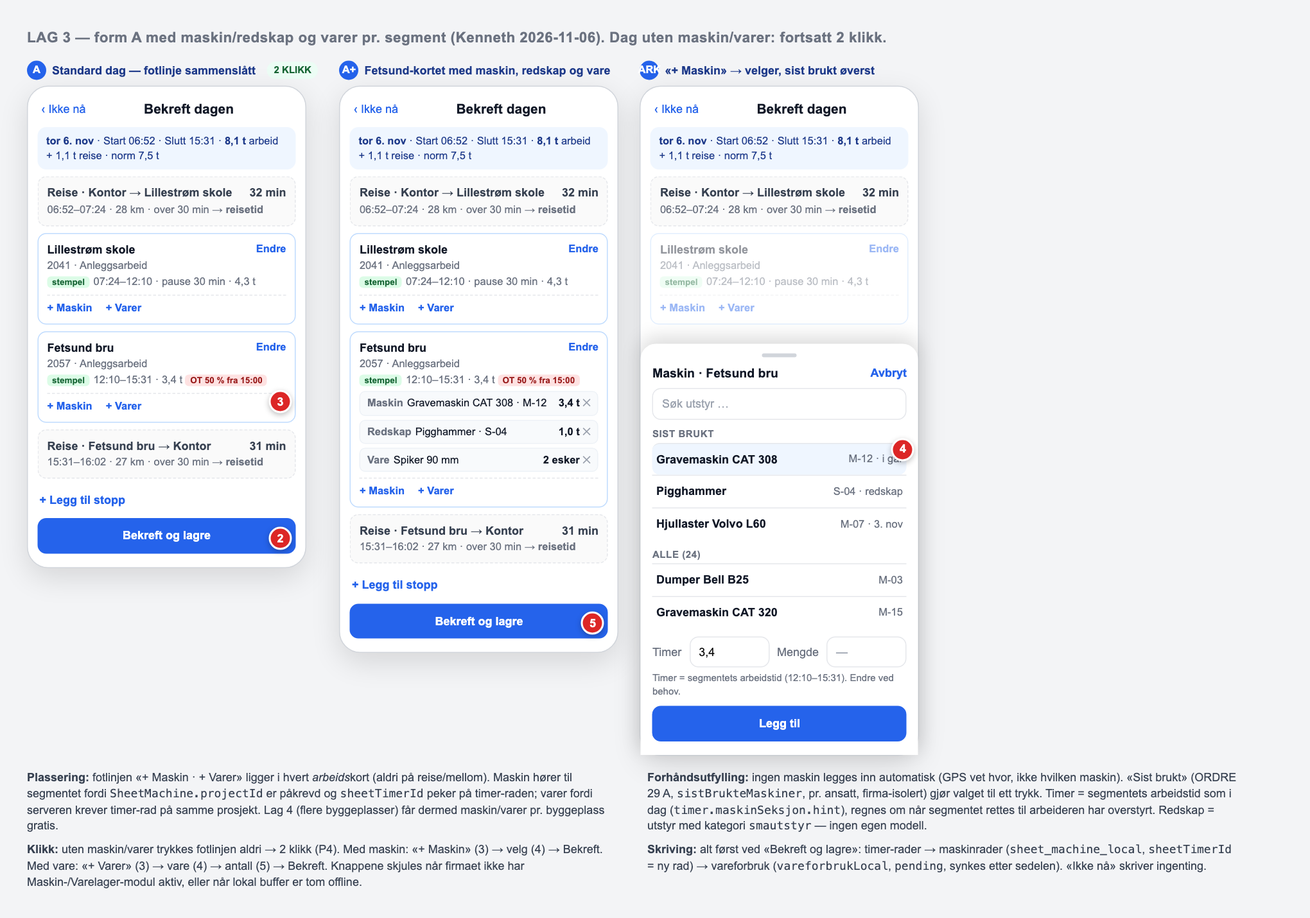
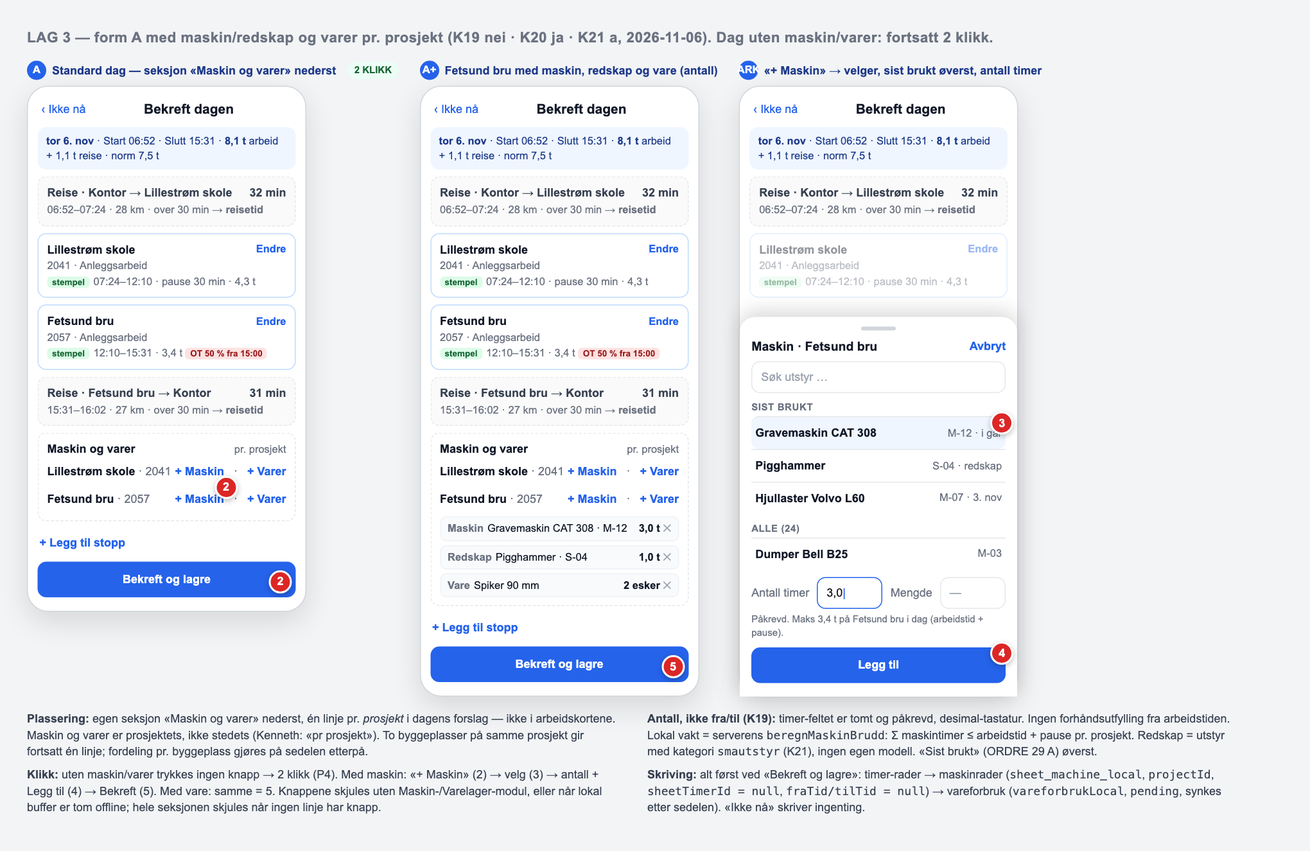
docs(timer-gps): K19–K21 vedtatt — maskin og varer pr. prosjekt med antall i bekreft-skjermen
Kenneth 2026-11-06: «la maskintimer være mulig å velge pr prosjekt, med antall -> ikke fra/til» (K19 nei),
«la varer være en mulighet vi kan legge til pr prosjekt» (K20), redskap = smautstyr (K21 a).

- § 3.5 omskrevet fra pr. byggeplass-segment til egen seksjon «Maskin og varer» pr. prosjekt:
  tomt antall-felt, sheetTimerId = null, fraTid/tilTid = null, lokal beregnMaskinBrudd-vakt,
  konsekvens for flere byggeplasser på samme prosjekt (én linje, fordeling på sedelen),
  K20 lesevisning i ProsjektGruppe (dagskort). Klikk: 2 uendret, maskin/vare 5.
- § 3.2-rad, § 6 L3-D-rad + modul-notat (byggeplassId på maskinrad → ORDRE 29 B #5, ikke L4-B),
  § 8 tester 15–19 omskrevet + 20–21 nye, § 9 K19–K21 lukket.
- Helhetsplan § 5-punktet speilet. Skisse skjermform-a-maskin-varer.png rendret på nytt.
- STATUS.md: loggpost + spec-rad.

diff --git a/docs/claude/skisser-timer-gps-lag3/skisser.html b/docs/claude/skisser-timer-gps-lag3/skisser.html
@@ -219,23 +219,28 @@ if (fig === "flyt") {
       </div>
     </div>`;
 } else if (fig === "maskinvarer") {
-  const fot = (klikk) => `<div class="fot"><span>+ Maskin</span><span>+ Varer</span>${klikk ? `<div class="klikk" style="right:-6px;top:-4px">${klikk}</div>` : ""}</div>`;
-  const kortLille = `<div class="sek arbeid"><div class="h"><span>Lillestrøm skole</span><span class="rediger">Endre</span></div><div class="u">2041 · Anleggsarbeid</div><div class="u"><span class="merke gps">stempel</span>07:24–12:10 · pause 30 min · 4,3 t</div>${fot()}</div>`;
+  const knapper = (klikk) => `<span style="display:flex;gap:10px;color:var(--primar);font-weight:600"><span style="position:relative">+ Maskin${klikk ? `<div class="klikk" style="right:-14px;top:-16px">${klikk}</div>` : ""}</span><span style="color:var(--demp);font-weight:400">·</span>+ Varer</span>`;
+  const plinje = (navn, nr, klikk) => `<div style="display:flex;justify-content:space-between;align-items:center;padding:6px 0;border-top:1px solid var(--linje);font-size:12px"><span><b>${navn}</b> <span style="color:var(--demp)">· ${nr}</span></span>${knapper(klikk)}</div>`;
+  const mvsek = (ekstra, klikk) => `<div class="sek" style="border-style:dashed"><div class="h"><span>Maskin og varer</span><span class="u" style="font-weight:400">pr. prosjekt</span></div>
+    ${plinje("Lillestrøm skole", "2041")}
+    ${plinje("Fetsund bru", "2057", klikk)}${ekstra}</div>`;
+  const kortLille = `<div class="sek arbeid"><div class="h"><span>Lillestrøm skole</span><span class="rediger">Endre</span></div><div class="u">2041 · Anleggsarbeid</div><div class="u"><span class="merke gps">stempel</span>07:24–12:10 · pause 30 min · 4,3 t</div></div>`;
+  const kortFetsund = `<div class="sek arbeid"><div class="h"><span>Fetsund bru</span><span class="rediger">Endre</span></div><div class="u">2057 · Anleggsarbeid</div><div class="u"><span class="merke gps">stempel</span>12:10–15:31 · 3,4 t <span class="merke ot">OT 50 % fra 15:00</span></div></div>`;
   const topp = `<div class="topp"><span class="tilbake">‹ Ikke nå</span><span class="t">Bekreft dagen</span><span></span></div>
   <div class="banner sum"><b>tor 6. nov</b> · Start 06:52 · Slutt 15:31 · <b>8,1 t</b> arbeid + 1,1 t reise · norm 7,5 t</div>
   <div class="sek reise"><div class="h"><span>Reise · Kontor → Lillestrøm skole</span><span>32 min</span></div><div class="u">06:52–07:24 · 28 km · over 30 min → <b>reisetid</b></div></div>`;
-  const bunn = `<div class="sek reise"><div class="h"><span>Reise · Fetsund bru → Kontor</span><span>31 min</span></div><div class="u">15:31–16:02 · 27 km · over 30 min → <b>reisetid</b></div></div>
-  <div class="legg">+ Legg til stopp</div>
+  const bunn = `<div class="legg">+ Legg til stopp</div>
   <div class="btn">Bekreft og lagre</div>`;
-  const a1 = `<div class="tlf">${topp}${kortLille}
-  <div class="sek arbeid"><div class="h"><span>Fetsund bru</span><span class="rediger">Endre</span></div><div class="u">2057 · Anleggsarbeid</div><div class="u"><span class="merke gps">stempel</span>12:10–15:31 · 3,4 t <span class="merke ot">OT 50 % fra 15:00</span></div>${fot(3)}</div>
+  const reiseHjem = `<div class="sek reise"><div class="h"><span>Reise · Fetsund bru → Kontor</span><span>31 min</span></div><div class="u">15:31–16:02 · 27 km · over 30 min → <b>reisetid</b></div></div>`;
+  const a1 = `<div class="tlf">${topp}${kortLille}${kortFetsund}${reiseHjem}
+  ${mvsek("", 2)}
   ${bunn}<div class="klikk" style="right:14px;bottom:18px">2</div></div>`;
-  const a2 = `<div class="tlf">${topp}${kortLille}
-  <div class="sek arbeid"><div class="h"><span>Fetsund bru</span><span class="rediger">Endre</span></div><div class="u">2057 · Anleggsarbeid</div><div class="u"><span class="merke gps">stempel</span>12:10–15:31 · 3,4 t <span class="merke ot">OT 50 % fra 15:00</span></div>
-    <div class="mv"><span><span class="ik">Maskin</span>Gravemaskin CAT 308 · M-12</span><span><b>3,4 t</b> <span class="x">✕</span></span></div>
+  const linjer = `
+    <div class="mv"><span><span class="ik">Maskin</span>Gravemaskin CAT 308 · M-12</span><span><b>3,0 t</b> <span class="x">✕</span></span></div>
     <div class="mv"><span><span class="ik">Redskap</span>Pigghammer · S-04</span><span><b>1,0 t</b> <span class="x">✕</span></span></div>
-    <div class="mv"><span><span class="ik">Vare</span>Spiker 90 mm</span><span><b>2 esker</b> <span class="x">✕</span></span></div>
-    ${fot()}</div>
+    <div class="mv"><span><span class="ik">Vare</span>Spiker 90 mm</span><span><b>2 esker</b> <span class="x">✕</span></span></div>`;
+  const a2 = `<div class="tlf">${topp}${kortLille}${kortFetsund}${reiseHjem}
+  ${mvsek(linjer)}
   ${bunn}<div class="klikk" style="right:14px;bottom:18px">5</div></div>`;
   const ark = `<div class="tlf">${topp}<div class="dimmet">${kortLille}</div>
   <div class="ark">
@@ -243,28 +248,27 @@ if (fig === "flyt") {
     <div class="tittel"><span>Maskin · Fetsund bru</span><span class="tilbake">Avbryt</span></div>
     <div class="sok">Søk utstyr …</div>
     <div class="gruppe">Sist brukt</div>
-    <div class="listerad valgt" style="position:relative"><span class="n">Gravemaskin CAT 308</span><span class="u">M-12 · i går</span><div class="klikk" style="right:-8px;top:-6px">4</div></div>
+    <div class="listerad valgt" style="position:relative"><span class="n">Gravemaskin CAT 308</span><span class="u">M-12 · i går</span><div class="klikk" style="right:-8px;top:-6px">3</div></div>
     <div class="listerad"><span class="n">Pigghammer</span><span class="u">S-04 · redskap</span></div>
     <div class="listerad"><span class="n">Hjullaster Volvo L60</span><span class="u">M-07 · 3. nov</span></div>
     <div class="gruppe">Alle (24)</div>
     <div class="listerad"><span class="n">Dumper Bell B25</span><span class="u">M-03</span></div>
-    <div class="listerad"><span class="n">Gravemaskin CAT 320</span><span class="u">M-15</span></div>
-    <div style="display:flex;gap:8px;align-items:center;margin-top:8px;font-size:12px"><span style="color:var(--demp)">Timer</span><span class="sok" style="flex:1;margin:0;color:#111">3,4</span><span style="color:var(--demp)">Mengde</span><span class="sok" style="flex:1;margin:0">—</span></div>
-    <div class="u" style="font-size:10px;color:var(--demp);margin-top:4px">Timer = segmentets arbeidstid (12:10–15:31). Endre ved behov.</div>
-    <div class="btn" style="margin-top:8px">Legg til</div>
+    <div style="display:flex;gap:8px;align-items:center;margin-top:8px;font-size:12px"><span style="color:var(--demp)">Antall timer</span><span class="sok" style="flex:1;margin:0;color:#111;border-color:var(--primar)">3,0<span style="color:var(--primar)">|</span></span><span style="color:var(--demp)">Mengde</span><span class="sok" style="flex:1;margin:0">—</span></div>
+    <div class="u" style="font-size:10px;color:var(--demp);margin-top:4px">Påkrevd. Maks 3,4 t på Fetsund bru i dag (arbeidstid + pause).</div>
+    <div class="btn" style="margin-top:8px;position:relative">Legg til<div class="klikk" style="right:-8px;top:-6px">4</div></div>
   </div></div>`;
   rot.innerHTML = `
-    <h1>LAG 3 — form A med maskin/redskap og varer pr. segment (Kenneth 2026-11-06). Dag uten maskin/varer: fortsatt 2 klikk.</h1>
+    <h1>LAG 3 — form A med maskin/redskap og varer pr. prosjekt (K19 nei · K20 ja · K21 a, 2026-11-06). Dag uten maskin/varer: fortsatt 2 klikk.</h1>
     <div class="rad">
-      <div><div class="steg"><span class="n">A</span>Standard dag — fotlinje sammenslått<span class="anbefalt">2 KLIKK</span></div>${a1}</div>
-      <div><div class="steg"><span class="n">A+</span>Fetsund-kortet med maskin, redskap og vare</div>${a2}</div>
-      <div><div class="steg"><span class="n">ARK</span>«+ Maskin» → velger, sist brukt øverst</div>${ark}</div>
+      <div><div class="steg"><span class="n">A</span>Standard dag — seksjon «Maskin og varer» nederst<span class="anbefalt">2 KLIKK</span></div>${a1}</div>
+      <div><div class="steg"><span class="n">A+</span>Fetsund bru med maskin, redskap og vare (antall)</div>${a2}</div>
+      <div><div class="steg"><span class="n">ARK</span>«+ Maskin» → velger, sist brukt øverst, antall timer</div>${ark}</div>
     </div>
     <div class="forklar" style="margin-top:14px;max-width:1260px;columns:2;column-gap:28px">
-      <p><b>Plassering:</b> fotlinjen «+ Maskin · + Varer» ligger i hvert <i>arbeids</i>kort (aldri på reise/mellom). Maskin hører til segmentet fordi <code>SheetMachine.projectId</code> er påkrevd og <code>sheetTimerId</code> peker på timer-raden; varer fordi serveren krever timer-rad på samme prosjekt. Lag 4 (flere byggeplasser) får dermed maskin/varer pr. byggeplass gratis.</p>
-      <p><b>Klikk:</b> uten maskin/varer trykkes fotlinjen aldri → 2 klikk (P4). Med maskin: «+ Maskin» (3) → velg (4) → Bekreft. Med vare: «+ Varer» (3) → vare (4) → antall (5) → Bekreft. Knappene skjules når firmaet ikke har Maskin-/Varelager-modul aktiv, eller når lokal buffer er tom offline.</p>
-      <p><b>Forhåndsutfylling:</b> ingen maskin legges inn automatisk (GPS vet hvor, ikke hvilken maskin). «Sist brukt» (ORDRE 29 A, <code>sistBrukteMaskiner</code>, pr. ansatt, firma-isolert) gjør valget til ett trykk. Timer = segmentets arbeidstid som i dag (<code>timer.maskinSeksjon.hint</code>), regnes om når segmentet rettes til arbeideren har overstyrt. Redskap = utstyr med kategori <code>smautstyr</code> — ingen egen modell.</p>
-      <p><b>Skriving:</b> alt først ved «Bekreft og lagre»: timer-rader → maskinrader (<code>sheet_machine_local</code>, <code>sheetTimerId</code> = ny rad) → vareforbruk (<code>vareforbrukLocal</code>, <code>pending</code>, synkes etter sedelen). «Ikke nå» skriver ingenting.</p>
+      <p><b>Plassering:</b> egen seksjon «Maskin og varer» nederst, én linje pr. <i>prosjekt</i> i dagens forslag — ikke i arbeidskortene. Maskin og varer er prosjektets, ikke stedets (Kenneth: «pr prosjekt»). To byggeplasser på samme prosjekt gir fortsatt én linje; fordeling pr. byggeplass gjøres på sedelen etterpå.</p>
+      <p><b>Klikk:</b> uten maskin/varer trykkes ingen knapp → 2 klikk (P4). Med maskin: «+ Maskin» (2) → velg (3) → antall + Legg til (4) → Bekreft (5). Med vare: samme = 5. Knappene skjules uten Maskin-/Varelager-modul, eller når lokal buffer er tom offline; hele seksjonen skjules når ingen linje har knapp.</p>
+      <p><b>Antall, ikke fra/til (K19):</b> timer-feltet er tomt og påkrevd, desimal-tastatur. Ingen forhåndsutfylling fra arbeidstiden. Lokal vakt = serverens <code>beregnMaskinBrudd</code>: Σ maskintimer ≤ arbeidstid + pause pr. prosjekt. Redskap = utstyr med kategori <code>smautstyr</code> (K21), ingen egen modell. «Sist brukt» (ORDRE 29 A) øverst.</p>
+      <p><b>Skriving:</b> alt først ved «Bekreft og lagre»: timer-rader → maskinrader (<code>sheet_machine_local</code>, <code>projectId</code>, <code>sheetTimerId = null</code>, <code>fraTid/tilTid = null</code>) → vareforbruk (<code>vareforbrukLocal</code>, <code>pending</code>, synkes etter sedelen). «Ikke nå» skriver ingenting.</p>
     </div>`;
 }
 document.body.dataset.klar = "1";

diff --git a/docs/claude/timer-gps-lag3-4-spec.md b/docs/claude/timer-gps-lag3-4-spec.md
@@ -3,7 +3,7 @@ name: timer-gps-lag3-4-spec
 description: Spesifikasjon for LAG 3 (bekreft dag — den menneskelige porten) og LAG 4 (flere byggeplasser pr. dag) i timer-GPS-helhetsplanen. Besøksmodell uten posisjonssporing, bekreft-dag-skjermen (2 klikk), reiseregler V1–V15 ved flere byggeplasser, løsning på G1-konflikten, leveransedeling og åpne spørsmål til Kenneth. Skrevet av fabel 2026-11-06 på orkestrators ordre (Kenneth «Ja, begge»), gates av orkestrator; Kenneth godkjenner før kode-ordre.
 sist_verifisert_mot_kode: 2026-11-06
 eier: fabel (kontroll-Claude) — orkestrator gater
-status: 🟢 VEDTATT 2026-11-06 (Kenneth «ja alle fire»: K11 a+c · K13 · K15 · K18 A; K12/K14/K16/K17 tas ved gate som anbefalt). Tillegg samme dag: maskin/redskap + varer i bekreft-skjermen (§ 3.5, leveranse L3-D). ORDRE-tekst L3-A klar i § 10. Nye spørsmål K19–K21 (§ 9) gjelder L3-D, ikke L3-A. Ingen kode levert
+status: 🟢 VEDTATT 2026-11-06 (Kenneth «ja alle fire»: K11 a+c · K13 · K15 · K18 A · K19 nei (maskin pr. prosjekt, antall) · K20 ja (varer pr. prosjekt) · K21 a; K12/K14/K16/K17 tas ved gate som anbefalt). Tillegg samme dag: maskin/redskap + varer i bekreft-skjermen (§ 3.5, leveranse L3-D). ORDRE-tekst L3-A klar i § 10. Nye spørsmål K19–K21 (§ 9) gjelder L3-D, ikke L3-A. Ingen kode levert
 ---
 
 # LAG 3 + LAG 4 — bekreft dag, og flere byggeplasser pr. dag
@@ -168,7 +168,7 @@ Skjermen viser **ett kort pr. segment** i kronologisk rekkefølge, pr. dato (del
 | Reise retur: «Reise · Fetsund bru → Kontor · 15:31–16:02 …» | V7, fra SISTE besøk | Nei — utledes |
 | Årsak-linje når reise mangler: «Ingen reise foreslått: posisjon utilgjengelig» / «Fetsund bru mangler plassering» / «ingen matrisecelle» | V12/V13 `reiseAarsak`/`destinasjonAarsak` | Nei (lenke til hjelp) |
 | Overtid: merke «OT 50 % fra 15:00» på raden som bærer | V4 (§ 4.4) | Nei — utledes |
-| Fotlinje i hvert *arbeids*kort: «+ Maskin · + Varer» (sammenslått, § 3.5) | Maskin-/Varelager-modul aktiv for firmaet | Ja: åpner velger-ark; registrerte linjer vises i kortet med «✕». Skjult når modul er av. **L3-D** |
+| Seksjon «Maskin og varer» nederst: én linje pr. *prosjekt* med «+ Maskin · + Varer» (§ 3.5, K19/K20 pr. prosjekt) | Maskin-/Varelager-modul aktiv for firmaet | Ja: åpner velger-ark; registrerte linjer vises under prosjektlinjen med «✕». Hele seksjonen skjult når modul er av. **L3-D** |
 | «+ Legg til stopp» nederst | — | Åpner samme velger som S2, setter inn besøk m/ tider (K13 ✅) |
 | [Bekreft og lagre] · [Ikke nå] | — | — |
 
@@ -203,59 +203,79 @@ hele gapet ligger på besøk n. Arbeideren kan sette «Dro fra» på kortet; da 
 fra» til neste ankomst. **Default når avreise er ukjent er K11 — ✅ VEDTATT (a)+(c) 2026-11-06:** hele gapet på
 besøk n til «Dro fra» settes; S1 foreslår «Dro fra A?» når appen åpnes utenfor A.
 
-### 3.5 Maskin/redskap og varer pr. segment (Kenneth 2026-11-06, skisse `skjermform-a-maskin-varer.png`)
+### 3.5 Maskin/redskap og varer pr. prosjekt (Kenneth 2026-11-06; K19–K21 vedtatt 2026-11-06; skisse `skjermform-a-maskin-varer.png`)
 
-> **Krav (Kenneth, via orkestrator, ordrett):** *«husk å etterregistrere maskintimer/redskap og varer»* — bekreft-
-> skjermen skal la arbeideren etterregistrere maskintimer/redskap og varer for dagen, ikke bare arbeidstimer og reise.
+> **Krav (Kenneth, ordrett):** *«husk å etterregistrere maskintimer/redskap og varer»* → **K19:** *«la maskintimer være
+> mulig å velge pr prosjekt, med antall -> ikke fra/til»* · **K20:** *«la varer være en mulighet vi kan legge til pr
+> prosjekt»* · **K21:** (a) som anbefalt.
 
-**Plassering: pr. byggeplass-segment (arbeidskortet), ikke pr. dag.** Målt grunnlag:
+**Plassering: pr. prosjekt, i en egen seksjon «Maskin og varer» nederst i skjermen** (over «+ Legg til stopp» og
+Bekreft) — én linje pr. prosjekt i dagens forslag, uansett hvor mange byggeplass-segmenter prosjektet har. Ikke i
+arbeidskortene (forrige utkast la dem pr. segment): maskin og varer er prosjektets, ikke stedets. Målt grunnlag:
 
-- `SheetMachine.projectId` er NOT NULL (`packages/db-timer/prisma/schema.prisma:544`) og `sheetTimerId` (`:541`)
-  kobler maskinraden til én timer-rad; mobil skriver maskin i dag bare gjennom timer-raden (`nyTimerRad.ts:161-182`,
-  `sheetTimerId = timerRadId`; maskintimer = radens timer, `timer.maskinSeksjon.hint` `nb.json:549`). En maskin uten
-  segment har ikke noe prosjekt å stå på.
-- `Vareforbruk` har `projectId` + `byggeplassId?` + `dagsseddelId?` (`packages/db-varelager/prisma/schema.prisma:74-84`),
-  og server-`opprett` (`apps/api/src/routes/vareforbruk.ts:370-394`) krever en sedel med minst én timer-rad på samme
-  prosjekt. Varer uten segment avvises.
-- Pr. segment gir lag 4 maskin/varer pr. byggeplass gratis — ingen omlegging når flere kort kommer (L4-B).
+- `SheetMachine.projectId` er NOT NULL (`packages/db-timer/prisma/schema.prisma:544`); `sheetTimerId` (`:541`) er
+  **valgfri** svak FK — null-rader «beholder søsken-rad-oppførsel og redigeres inline via maskin-seksjonen»
+  (kommentar `:535-540`). En maskinrad på prosjektnivå uten rad-kobling er et dokumentert tilfelle, ikke et unntak.
+  `fraTid/tilTid` er nullable (`:547-548`) — «antall, ikke fra/til» krever ingen skjema-endring.
+- `Vareforbruk` har `projectId` + `byggeplassId?` + `dagsseddelId?` (`packages/db-varelager/prisma/schema.prisma:74-84`);
+  server-`opprett` (`apps/api/src/routes/vareforbruk.ts:370-394`) krever sedel med ≥ 1 timer-rad på samme prosjekt.
+  Pr. prosjekt oppfyller kravet direkte: steg 1 skriver alltid minst én rad pr. prosjekt.
+- Server-vakt `validerMaskinUnderArbeid` (`apps/api/src/routes/timer/dagsseddel.ts:1050`) → `beregnMaskinBrudd`
+  (`packages/shared/src/utils/maskinKapasitet.ts:79`): Σ maskintimer ≤ Σ arbeidstimer + pause **pr. prosjekt(+ECO)**.
+  Grupperingen er alt pr. prosjekt, så vedtaket passer vakten. **Mobil importerer ikke funksjonen i dag** (0 treff i
+  `apps/mobile/src`); skjermen skal kjøre den lokalt før Bekreft — ellers avvises hele `syncBatch` server-side etter at
+  dagen er avsluttet lokalt.
+- Byggeplass på maskinrad utledes i dag server-side fra sedelhodet (`syncMaskinByggeplass`, `dagsseddel.ts:6301`:
+  `vaskTell(lokal.byggeplassId, radProsjekt(m.projectId))`). Mobil sender ikke `byggeplassId` pr. maskinrad, og en
+  pr.-prosjekt-rad trenger det ikke.
 
-**Klikktelling (P4-taket, maks 2 for vanlig dag):** hvert arbeidskort får én sammenslått **fotlinje «+ Maskin ·
-+ Varer»** — to tekstknapper, ingen egen seksjon, ingen tom liste. Dag uten maskin/varer: fotlinjen trykkes aldri →
-**2 klikk uendret**. Med maskin: «+ Maskin» (3) → velg i ark (4) → Bekreft = 4. Med vare: «+ Varer» (3) → vare (4)
-→ antall + Legg til (5) → Bekreft = 5. Reise- og mellom-kort har ingen fotlinje.
+**Konsekvens for flere byggeplasser på samme prosjekt samme dag (lag 4):** én prosjektlinje og én maskinrad/vare
+uansett antall besøk. Maskin og varer fordeles **ikke** pr. byggeplass fra skjermen; `byggeplassId` på vare settes bare
+når prosjektet har nøyaktig én byggeplass i forslaget (entydig), ellers null, og maskinrad bærer aldri byggeplass fra
+skjermen. Fordeling pr. byggeplass gjøres i så fall på sedelen etterpå (`MaskinSeksjon`, prosjektkortets vareliste).
+Det er vedtakets pris, og den er riktig: GPS vet *hvor* arbeideren var, ikke hvor maskinen gikk. § 6-notatet om
+`sheet_machine_local.byggeplassId` er dermed ikke lenger en forutsetning for denne skjermen.
+
+**Klikktelling (P4-taket, maks 2 for vanlig dag):** seksjonen viser prosjektnavn + «+ Maskin · + Varer» pr. prosjekt.
+Dag uten maskin/varer: ingen av knappene trykkes → **2 klikk uendret**. Med maskin: «+ Maskin» → velg i ark → antall +
+Legg til → Bekreft = **5**. Med vare: «+ Varer» → vare → antall + Legg til → Bekreft = **5**. (Forrige utkast hadde
+maskin = 4 fordi timer var forhåndsutfylt; K19 nei koster ett felt. Riktig: en maskintime arbeideren ikke har skrevet,
+er et gjett.)
 
 **Maskin/redskap:**
 
 | Element | Kilde / regel | Redigerbar? |
 |---|---|---|
-| Velger-ark «Maskin · {byggeplass}» | `EquipmentVelgerModal` (`MaskinSeksjon.tsx:1003`, sortering `:1053-1065`) med gruppe **«Sist brukt»** øverst (ORDRE 29 A: `sistBrukteMaskiner` pr. ansatt, firma-isolert, 2d mobil i `nyTimerRad.ts`), deretter «Alle» + søk | Ja |
-| Timer | **forhåndsutfylt = segmentets arbeidstid** (samme regel som i dag). Regnes om når segmentets tider rettes, til arbeideren har overstyrt feltet (K19) | Ja |
+| Prosjektlinje | ett prosjekt = én linje, nøkkel `projectId`; navn + prosjektnummer som i kortene | — |
+| Velger-ark «Maskin · {prosjekt}» | `EquipmentVelgerModal` (`MaskinSeksjon.tsx:1003`, sortering `:1053-1065`) med gruppe **«Sist brukt»** øverst (ORDRE 29 A: `sistBrukteMaskiner` pr. ansatt, firma-isolert), deretter «Alle» + søk | Ja |
+| **Antall timer** | **tomt felt, påkrevd, desimal-tastatur** — K19: ikke fra/til, ikke forhåndsutfylt. Lokal vakt: Σ maskintimer på prosjektet ≤ Σ arbeidstimer + pause (`beregnMaskinBrudd`), samme tekst som serverens brudd-melding; feltet rødt og «Legg til» blokkert ved brudd | Ja |
 | Mengde · enhet | tomt, valgfritt — som «Maskin (valgfritt)» i `TimerRadModal` (`TimerSeksjon.tsx:1813-1893`) | Ja |
-| Redskap | = `Equipment.kategori='smautstyr'` (`apps/mobile/src/db/schema.ts:458`; import `maskinImport.ts:86`). Vises i samme velger merket «redskap». **Ingen egen modell** (K21) | — |
-| Flere maskiner pr. segment | én linje pr. maskin i kortet, «✕» pr. linje | Ja |
+| Redskap | = `Equipment.kategori='smautstyr'` (`apps/mobile/src/db/schema.ts:458`; import `maskinImport.ts:86`), merket «redskap» i samme velger. **Ingen egen modell (K21 ✅ a)** | — |
+| Flere maskiner pr. prosjekt | én linje pr. maskin under prosjektlinjen, «✕» pr. linje; samme maskin to ganger = to rader (som på sedelen) | Ja |
 
-Ingen maskin legges inn automatisk: GPS vet *hvor*, ikke *hvilken* maskin. «Sist brukt» gjør valget til ett trykk uten å
-skrive rader arbeideren ikke har bedt om (samme prinsipp som porten i § 5).
+Ingen maskin legges inn automatisk: GPS vet *hvor*, ikke *hvilken* maskin. «Sist brukt» gjør valget til ett trykk uten
+å skrive rader arbeideren ikke har bedt om (samme prinsipp som porten i § 5).
 
-**Varer:**
+**Varer (K20 ✅ — «en mulighet vi kan legge til pr prosjekt»):**
 
 | Element | Kilde / regel | Redigerbar? |
 |---|---|---|
-| Velger-ark | `KortVareforbrukModal` (`apps/mobile/src/components/timer-detalj/KortVareforbrukModal.tsx`) gjenbrukt: prosjekt låst til segmentets, byggeplass-chip forhåndsvalgt fra segmentet, varesøk mot lokal `vareLocal` (`schema.ts:934`, buffer fra `vareKatalog.ts`) | Ja |
+| Velger-ark | `KortVareforbrukModal` (`apps/mobile/src/components/timer-detalj/KortVareforbrukModal.tsx`) gjenbrukt: prosjekt låst til linjens; byggeplass-chip forhåndsvalgt når prosjektet har én byggeplass i forslaget, ellers tom/valgfri; varesøk mot lokal `vareLocal` (`schema.ts:934`, buffer fra `vareKatalog.ts`) | Ja |
 | Antall · enhet | enhet fra varen; antall må fylles | Ja |
 
 **Dataskriving — alt først ved «Bekreft og lagre»** (`anvendDagsforslag` utvides i L3-D; i dag har den 0 felt for
 maskin/varer, `dagsforslagAnvend.ts:17-29`). Rekkefølge:
 
 1. Timer-rader pr. segment (som L3-A).
-2. Maskinrader → `sheet_machine_local` (`schema.ts:208`): `sheetTimerId` = den nye timer-radens id, `projectId` =
-   segmentets, `timer`, `mengde/enhet`, `vehicleId`. Sync som i dag via `dagsseddel.syncBatch` (`timerSync.ts:651/758`;
-   Zod `dagsseddel.ts:5867-5885`); byggeplass utledes på server (`syncMaskinByggeplass` `:6285`) til
-   `sheet_machine_local` får `byggeplassId` (modul-sjekk § 6).
-3. Vareforbruk-rader → `vareforbrukLocal` (`schema.ts:951`): `sheetId` = lokal sedel-id, `projectId`, `byggeplassId`,
-   `syncStatus='pending'`. Synkes av eksisterende `syncVareforbruk` (`vareforbrukSync.ts:73`, kalt fra
-   `TimerSyncProvider.tsx:192`) **etter** at sedelen er `synced` (`:48`) — server-kravet om timer-rad på samme prosjekt
-   er oppfylt fordi steg 1 skrev den.
+2. Maskinrader → `sheet_machine_local` (`schema.ts:208`): `projectId` = linjens, **`sheetTimerId = null`**
+   (prosjektnivå — dokumentert null-tilfelle; ved to segmenter på prosjektet finnes ingen riktig rad å peke på),
+   `timer` = antall, `mengde/enhet`, `vehicleId`, `fraTid/tilTid = null`, `externalCostObjectId` = prosjektets
+   timer-raders ECO når alle deler én, ellers null (T7-4a: maskin følger prosjekt+ECO-gruppe). Sync som i dag via
+   `dagsseddel.syncBatch` (`timerSync.ts:651/758`; Zod `dagsseddel.ts:5867-5885`); byggeplass utledes på server.
+3. Vareforbruk-rader → `vareforbrukLocal` (`schema.ts:951`): `sheetId` = lokal sedel-id, `projectId`, `byggeplassId`
+   (entydig eller null), `syncStatus='pending'`. Synkes av eksisterende `syncVareforbruk` (`vareforbrukSync.ts:73`,
+   kalt fra `TimerSyncProvider.tsx:192`) **etter** at sedelen er `synced` (`:48`) — server-kravet om timer-rad på
+   samme prosjekt er oppfylt fordi steg 1 skrev den.
 
 Avbrudd («Ikke nå», sveip, drept app) skriver ingenting — heller ikke maskin/varer som alt er lagt inn i skjermen (§ 3.1).
 
@@ -263,23 +283,30 @@ Avbrudd («Ikke nå», sveip, drept app) skriver ingenting — heller ikke maski
 
 - «+ Maskin» vises bare når firmaet har Maskin-modul aktiv og `equipmentLocal` har utstyr (samme vilkår som
   `MaskinSeksjon`). Server-vaktene `verifiserKjoretoyTilhørerFirma` + `validerMaskinUnderArbeid` er uendret.
-- «+ Varer» vises bare når `visVareforbrukKnapp` er sann for segmentets prosjekt
+- «+ Varer» vises bare når `visVareforbrukKnapp` er sann for linjens prosjekt
   (`packages/shared/src/utils/prosjektkort.ts:169`: `prosjektIderMedVarelager.includes(projectId)`). Katalogen er
   firma-isolert (`katalogForFirma`, `vareforbruk.ts:157`).
+- Hele seksjonen skjules når ingen prosjektlinje har en synlig knapp.
 - Offline: begge velgere leser lokale buffere. Er bufferen tom offline, vises «Utstyr/varer ikke lastet — legg til på
-  sedelen senere» i fotlinjen i stedet for knappen. Skjermen gjør ingen nettkall.
+  sedelen senere» i linjen i stedet for knappen. Skjermen gjør ingen nettkall.
 
-**Etterpå på sedelen:** maskin vises i `MaskinSeksjon` under prosjektgruppen (`ProsjektGruppe.tsx:359`) i begge
-registreringsmoduser. Varer vises i dag **bare i prosjektkort-modus** (`apps/mobile/app/timer/[id]/kort/[projectId].tsx:336-371`;
-dagskort laster ikke `vareQuery`, `[id].tsx:631-633`). I dagskort-modus ville varene arbeideren la inn i skjermen være
-usynlige på sedelen etterpå → **K20**.
+**Etterpå på sedelen — vedtak for dagskort-modus (K20, tatt i spec på orkestrators ordre):** maskin vises i
+`MaskinSeksjon` under prosjektgruppen (`ProsjektGruppe.tsx:359`) i begge registreringsmoduser — rader med
+`sheetTimerId = null` rendres inline der i dag. Varer vises i dag **bare i prosjektkort-modus**
+(`apps/mobile/app/timer/[id]/kort/[projectId].tsx:336-371`; dagskort laster ikke `vareQuery`, `[id].tsx:631-633`).
+**L3-D legger en lesevisning av prosjektets vareforbruk i `ProsjektGruppe` (dagskort)**, samme spørring som
+prosjektkortet — en vare arbeideren nettopp bekreftet skal ikke være usynlig i halve brukermassen. Retting skjer via
+prosjektkortet/web som i dag; ingen ny redigering i dagskort.
 
-**Personvern/isolering:** ingen nye persondata. Maskin- og varerader bærer prosjekt/byggeplass og ansatt (via sedelen)
-nøyaktig som i dag. `sistBrukteMaskiner` leser kun egne rader (ORDRE 29 A).
+**Personvern/isolering:** ingen nye persondata. Maskin- og varerader bærer prosjekt (og evt. byggeplass) og ansatt (via
+sedelen) nøyaktig som i dag. `sistBrukteMaskiner` leser kun egne rader (ORDRE 29 A).
 
-**Funn (løses ikke her, meldes Kontrollør):** `vareforbruk.opprett` henter sedelens `userId` (`vareforbruk.ts:378`) men
-sammenligner den ikke med `ctx.userId` — en bruker i samme firma kan muligens registrere vareforbruk på en annens
-sedel. Måles i L3-D-gaten; fiks hører til API, ikke mobil.
+**Funn (løses ikke her, meldes Kontrollør):**
+
+1. `vareforbruk.opprett` henter sedelens `userId` (`vareforbruk.ts:378`) men sammenligner den ikke med `ctx.userId` —
+   en bruker i samme firma kan muligens registrere vareforbruk på en annens sedel. Måles i L3-D-gaten; fiks i API.
+2. `beregnMaskinBrudd` ligger i shared, men ingen fil i `apps/mobile/src` importerer den: dagens `TimerRadModal` kan
+   skrive maskin > arbeid lokalt og få hele synken avvist. L3-D bør bruke vakten i begge innganger (skjermen + modalen).
 
 ---
 
@@ -388,7 +415,7 @@ arbeidstid». Brudd?
 | # | Leveranse | Lag | Berører | Migrering | Avhenger av |
 |---|---|---|---|---|---|
 | **L3-A** | Skjermen `/timer/bekreft-dag` (form A ✅), `anvend` bak Bekreft, delt `samleDagsforslagInput`, avbrudd = åpen dag, grenene glemt/sendt/tomt/ukjent, V12/V13-årsaker, rettedybde B *for én byggeplass* (prosjekt/tid/pause/fjern), tre kodekommentarer reversert, i18n ×15, tester § 8 nr. 1–8. **ORDRE-tekst: § 10** | 3 | mobil | ingen | — (✅ K15: bestilles nå) |
-| **L3-D** | Maskin/redskap og varer i bekreft-skjermen (§ 3.5): fotlinje pr. arbeidskort, `EquipmentVelgerModal` m/ «Sist brukt», `KortVareforbrukModal` m/ låst prosjekt, `anvendDagsforslag` skriver maskin- og vareforbruk-rader bak Bekreft, vakter Maskin/Varelager, offline-buffer, varer synlige på sedelen i dagskort-modus (K20), tester § 8 nr. 15–19 | 3 | mobil (+ shared/i18n; `ProsjektGruppe` ved K20 a) | ingen | L3-A merget + ORDRE 29 Leveranse A (`sistBrukteMaskiner`) merget; K19–K21 |
+| **L3-D** | Maskin/redskap og varer i bekreft-skjermen (§ 3.5): seksjon «Maskin og varer» pr. prosjekt (antall timer, ikke fra/til), `EquipmentVelgerModal` m/ «Sist brukt», `KortVareforbrukModal` m/ låst prosjekt, lokal `beregnMaskinBrudd`-vakt, `anvendDagsforslag` skriver maskin- (`sheetTimerId = null`) og vareforbruk-rader bak Bekreft, vakter Maskin/Varelager, offline-buffer, lesevisning av varer i `ProsjektGruppe` (K20), tester § 8 nr. 15–21 | 3 | mobil (+ shared-import, i18n; `ProsjektGruppe`) | ingen | L3-A merget + ORDRE 29 Leveranse A (`sistBrukteMaskiner`) merget; K19–K21 ✅ vedtatt 2026-11-06 |
 | **L4-A** | `arbeidsdag_besok_local` + mobil-migrering, besøk 1 fra Start dag, S1-banner (AppState + 10-min-vakt) og S2-knapp, rydding av `arbeidsdag_local`+besøk > 14 d | 4 | mobil | mobil (SQLite) | L3-A (ellers havner nye besøk i en skjerm som ikke finnes) |
 | **L4-B** | `beregnDagsforslag` m/ `besok[]`: rad pr. besøk, V9 mellom-rad, V4 pr. dag, V5/V6 på tvers, V7 fra siste, V8 stempel; `dagsseddel_local.project_id` nullable (H14); skjermen viser flere kort + «Dro fra» + «+ Legg til stopp»; fasit Dag C som test | 4 | mobil + shared | mobil | L4-A, K11/K13 |
 | **L4-C** | Server: `reiseRetning='mellom'` i Zod/invarianter, `arvReiseSpor`/`beregnReiseAvvik` hopper mellom-rader, attestering/eksport viser byggeplass pr. rad; **persondata-gjerdet `hentTilAttestering` lukkes her** | 4 | api + db-timer | evt. CHECK på `reiseRetning` (Kontrollør måler) | kan gå parallelt med L4-B; må merges FØR L4-B (mobil sender ellers rader serveren avviser) |
@@ -406,11 +433,11 @@ i egen branch hvis kapasitet finnes (ulike filer: L3-D = skjermen + `dagsforslag
 - `sheet_machines` (Maskin) og `Vareforbruk` (Varelager): **berørt av L3-D, men uten skjema-endring** — skjermen skriver
   gjennom de eksisterende lokale tabellene og synk-veiene (§ 3.5), ingen nye felt på server. Lest mot `maskin.md` og
   `dagsseddel-design.md`: `Vareforbruk.dagsseddelId?` «registreres i Timer-flyten» er nettopp dette. **Mangel målt:**
-  `sheet_machine_local` (`schema.ts:208`) har ikke `byggeplassId` (server har, `schema.prisma:546`); server utleder i
-  `syncMaskinByggeplass`. Holder for L3-A/L3-D (ett segment = én byggeplass pr. prosjekt), men ved L4-B (to besøk
-  samme prosjekt, ulik byggeplass) må mobil sende `byggeplassId` pr. maskinrad: mobil-migrering + `syncBatch`-Zod.
-  **Koordineres med ORDRE 29 Leveranse B #5** («har SheetMachine også byggeplassId, gjelder samme regel») så det
-  ikke gjøres to ganger.
+  `sheet_machine_local` (`schema.ts:208`) har ikke `byggeplassId` (server har, `schema.prisma:546`); server utleder fra
+  sedelhodet i `syncMaskinByggeplass` (`dagsseddel.ts:6301`). **Ikke lenger en forutsetning for skjermen** — K19/K20
+  legger maskin og varer pr. prosjekt, og maskinrad bærer aldri byggeplass fra skjermen (§ 3.5). Fordeling av maskin
+  pr. byggeplass ved to besøk på samme prosjekt er en sedel-sak og hører til **ORDRE 29 Leveranse B #5** («har
+  SheetMachine også byggeplassId, gjelder samme regel»), ikke L4-B.
 - `sheet_timer`: nytt verdi-alternativ `reiseRetning='mellom'` (L4-C). Lest mot `timer.md`, fase-0 C.16 og
   `maskin.md`: ingen av dem leser `reiseRetning`. Eksport (`timer.md § eksport`) må vise «mellom» som arbeidstid —
   Kontrollør bekrefter ved L4-C.
@@ -447,17 +474,21 @@ i egen branch hvis kapasitet finnes (ulike filer: L3-D = skjermen + `dagsforslag
 12. S1: `AppState active` to ganger innen 10 min → én måling (vakt).
 13. Rydding: `arbeidsdag_local` + besøk eldre enn 14 d slettes, nyere ikke.
 14. `hentTilAttestering` viser ikke andre prosjekters rader for prosjektadmin (L4-C, gjerde-test som feiler i dag).
-15. L3-D: Bekreft med én maskin på segmentet → rad i `sheet_machine_local` med `sheetTimerId` = segmentets nye
-    timer-rad, `projectId` = segmentets, `timer` = segmentets arbeidstid når ikke overstyrt (**rød først**: `anvend`
-    skriver ingen maskin i dag).
-16. L3-D: Bekreft med én vare → rad i `vareforbrukLocal` med `syncStatus='pending'`, `sheetId` = sedelen; `syncVareforbruk`
-    sender først når sedelen er `synced` (eksisterende vakt `:48` dekkes av test).
-17. L3-D: Dag uten maskin/varer → nøyaktig samme klikksti som L3-A (2); fotlinjen rendres men åpner ingen seksjon
+15. L3-D: Bekreft med én maskin på prosjektet, antall 3,0 → rad i `sheet_machine_local` med `projectId` = prosjektet,
+    **`sheetTimerId = null`**, `fraTid/tilTid = null`, `timer = 3.0` (**rød først**: `anvend` skriver ingen maskin i dag).
+16. L3-D: Bekreft med én vare → rad i `vareforbrukLocal` med `syncStatus='pending'`, `sheetId` = sedelen, `projectId` =
+    linjens, `byggeplassId` = prosjektets eneste byggeplass i forslaget; `syncVareforbruk` sender først når sedelen er
+    `synced` (eksisterende vakt `:48` dekkes av test).
+17. L3-D: Dag uten maskin/varer → nøyaktig samme klikksti som L3-A (2); seksjonen rendres men åpner ingenting
     (snapshot/`queryByText`).
-18. L3-D: «+ Varer» rendres ikke når `prosjektIderMedVarelager` mangler segmentets prosjekt; «+ Maskin» rendres ikke uten
-    Maskin-modul/tomt `equipmentLocal`.
+18. L3-D: «+ Varer» rendres ikke når `prosjektIderMedVarelager` mangler linjens prosjekt; «+ Maskin» rendres ikke uten
+    Maskin-modul/tomt `equipmentLocal`; hele seksjonen rendres ikke når ingen linje har knapp.
 19. L3-D: Avbrudd etter at maskin og vare er lagt inn i skjermen → 0 rader i `sheet_machine_local` og `vareforbrukLocal`
     (utvidelse av nr. 2).
+20. L3-D: Forslag med to segmenter på samme prosjekt (syntetisk input i testen, ingen L4-B-avhengighet) → **én**
+    prosjektlinje; én maskin → én rad; vare får `byggeplassId = null` (ikke entydig).
+21. L3-D: Antall maskintimer 9,0 på prosjekt med 3,4 t arbeid + 0,5 t pause → «Legg til» blokkert med
+    `beregnMaskinBrudd`-melding, ingen rad; samme input mot `syncBatch` gir samme brudd (server-test finnes).
 
 ---
 
@@ -473,12 +504,11 @@ i egen branch hvis kapasitet finnes (ulike filer: L3-D = skjermen + `dagsforslag
 | **K16** | `arbeidsdag_local.start_lat/lng, end_lat/lng` — beholde? | (a) behold (ikke synket, lokal) · (b) dropp, lagre kun tolket sted | **(b)** i L4-A — konsekvent med «aldri GPS-posisjon til person»; ingen leser dem etter tolkning | tas ved gate som anbefalt (b) |
 | **K17** | Bekreft: PSI-innsjekk er aldri kilde for besøk eller timer | ja / nei | **ja** — holder «tilstedeværelse ≠ arbeidstid» | tas ved gate som anbefalt (ja) |
 | **K18** | Skjermform A (segmentliste) eller B (tidslinje)? Se `skjermform-a-b.png` | A / B | **A** (§ 3.2) | ✅ **VEDTATT A 2026-11-06** |
-| **K19** | Maskintimer i bekreft-skjermen: forhåndsutfylt = segmentets arbeidstid? | (a) ja, forhåndsutfylt og redigerbar i arket; regnes om når segmentet rettes til arbeideren overstyrer · (b) alltid tomt felt, må fylles | **(a)** — samme regel som dagens `TimerRadModal` (maskin = radens timer); (b) legger ett klikk på hver maskin | ÅPEN — L3-D |
-| **K20** | Varer lagt inn i skjermen er usynlige på sedelen i dagskort-modus (§ 3.5) | (a) L3-D legger en lesevisning av vareforbruk i `ProsjektGruppe` (dagskort) — samme data som prosjektkortet · (b) «+ Varer» vises bare når firmaet står i prosjektkort-modus; dagskort får varer senere | **(a)** — ellers kan arbeideren ikke se eller rette det han nettopp bekreftet; (b) er stille tomhet i halve brukermassen | ÅPEN — L3-D |
-| **K21** | «Redskap» — egen kategori i utstyrsregisteret? | (a) nei, `smautstyr` dekker redskap; velgeren merker dem «redskap» · (b) ny `Equipment.kategori='redskap'` (db-maskin-migrering + import + web) | **(a)** — ingen migrering, importen (`maskinImport.ts:86`) legger alt håndholdt der alt; (b) kan tas senere uten å røre skjermen | ÅPEN — L3-D |
+| **K19** | Maskintimer i bekreft-skjermen: forhåndsutfylt = segmentets arbeidstid? | (a) ja, forhåndsutfylt og redigerbar i arket; regnes om når segmentet rettes til arbeideren overstyrer · (b) alltid tomt felt, må fylles | (a) var anbefalt | ❌ **VEDTATT NEI 2026-11-06** — Kenneth: *«pr prosjekt, med antall -> ikke fra/til»*: tomt antall-felt, påkrevd, pr. prosjekt (§ 3.5) |
+| **K20** | Varer lagt inn i skjermen er usynlige på sedelen i dagskort-modus (§ 3.5) | (a) L3-D legger en lesevisning av vareforbruk i `ProsjektGruppe` (dagskort) — samme data som prosjektkortet · (b) «+ Varer» vises bare når firmaet står i prosjektkort-modus; dagskort får varer senere | **(a)** | ✅ **VEDTATT 2026-11-06** — Kenneth: *«en mulighet vi kan legge til pr prosjekt»*; lesevisning (a) tatt i spec på orkestrators ordre (§ 3.5) |
+| **K21** | «Redskap» — egen kategori i utstyrsregisteret? | (a) nei, `smautstyr` dekker redskap; velgeren merker dem «redskap» · (b) ny `Equipment.kategori='redskap'` (db-maskin-migrering + import + web) | **(a)** | ✅ **VEDTATT (a) 2026-11-06** |
 
-K11/K13/K15/K18 er vedtatt; **L3-A kan bestilles nå (§ 10)**. K19–K21 trengs før L3-D bestilles — kan tas som
-«anbefalt» ved L3-D-gaten hvis Kenneth ikke svarer før.
+K11/K13/K15/K18 og K19–K21 er vedtatt; **L3-A kan bestilles nå (§ 10)**, L3-D når L3-A + ORDRE 29 A er på `develop`.
 
 ---
 

diff --git a/docs/claude/STATUS.md b/docs/claude/STATUS.md
@@ -12,6 +12,7 @@
 > - Hvis ingen av delene: kort fri beskrivelse (eller tom)
 
 **Sist oppdatert:** 2026-11-06
+- 2026-11-06 — **`timer-gps-lag3-4-spec.md` § 3.5/§ 6/§ 8/§ 9 + `timer-gps-helhetsplan.md` § 5 + skisse `skjermform-a-maskin-varer.png`: K19–K21 vedtatt** (branch `docs/timer-gps-k19-21`, docs-only, Fabel, 🟢 VEDTATT 2026-11-06): Kenneth: maskintimer pr. prosjekt med antall (ikke fra/til, K19 nei), varer valgfritt pr. prosjekt (K20), redskap = `smautstyr` (K21 a). § 3.5 omskrevet fra pr. byggeplass-segment til egen seksjon «Maskin og varer» pr. prosjekt (`sheetTimerId = null`, lokal `beregnMaskinBrudd`-vakt, konsekvens for flere byggeplasser samme prosjekt: én linje, fordeling på sedelen); § 6 L3-D-rad + modul-notat, § 8 tester 15–19 omskrevet + 20–21 nye, § 9 K19–K21 lukket. Helhetsplan-punktet speilet.
 - 2026-11-06 — **NY fil `timer-gps-lag3-4-spec.md` + skisser `skisser-timer-gps-lag3/`** (branch `docs/timer-gps-lag3-4`, docs-only, Fabel, 🟢 VEDTATT 2026-11-06): lag 3 bekreft dag + lag 4 flere byggeplasser pr. dag — § 1 M1–M14 målt, § 2 byggeplass-besøk gjennom dagen (LAG 4), § 3 skjermform A vedtatt (K11 (a)+(c), K13, K15, K18), § 3.5 maskin/redskap/varer pr. byggeplass-segment (Kenneth-krav, egen leveranse L3-D), § 4 reiseregler ved flere byggeplasser, § 5 G1-konflikten, § 6 rekkefølge L3-A → L3-D → L4-A → L4-C ∥ L4-B → L3-B, § 8 19 tester, § 9 K19–K21 åpne, § 10 kodbar ORDRE-tekst L3-A. Fire PNG-skisser rendret fra `skisser.html`. `timer-gps-helhetsplan.md` LAG 3 peker til spec + § 7 ordre-status. Telling: +1 🔄 Under arbeid.
 - 2026-11-06 — **`timer.md` + `mobil-dagsseddel-ui-spec.md` + `mobil.md` + `steg-4b-plan.md`: Prosjektkort L3 — vareforbruk fra kortet** (branch `feat/prosjektkort-l3`, kode + docs, Redesign, ⚠ venter Kontrollør-gate): ny § Prosjektkort L3 i timer.md (`katalogForFirma`, idempotent `opprett` m/ valgfri `id`, web-modal + felles `VareVelger`, mobil `vare_local`/`vareforbruk_local` + `syncVareforbruk`, omnøkling i `forsonSedelIdentitet`, følge-funn `vare.list` admin-only); spec-linje om kortskjermens vareforbruk; mobil.md tabell-liste + katalog-refresh; steg-4b-plan § 5.2/§ 6.4 tillegg. Telling uendret.
 - 2026-11-05 — **`timer.md` + `arkitektur.md`: Prosjektkort L1** (branch `feat/prosjektkort-l1`, kode + docs, Redesign, ⚠ venter Kontrollør-gate): ny § Prosjektkort L1 i timer.md (visningsmodus over samme `DailySheet`, kortsummer, byggeplass-utledning, `hentMineForDato`, låst prosjekt + overlapp-melding m/ kortnavn); `OrganizationSetting.timerRegistreringsmodus` i felttabellen og arkitektur.md § Database (migrering `20261105120000`, ikke kjørt). Telling uendret.
@@ -331,7 +332,7 @@ T7-3a/b1/b2 er deployet til prod (`223afc17` på main, server-route-endringer ak
 | timer-gps-helhetsplan.md | 2026-10-01 | **Arbeidsanker (fabel eier, orkestrator gater):** helhetsplan som syr sammen GPS, reise, flerprosjekt-dag og bekreftelsessteget. § 1–3 innsikter, § 4 tilstand målt (H1–H20), § 4b dagsmodell V1–V14 (Kenneth-vedtak 2026-10-01), § 5 fem lag (lag 0–1 levert, lag 2 spec, lag 3/4 spec 🟢 VEDTATT 2026-11-06 → `timer-gps-lag3-4-spec.md`), § 6 K1/K6–K9 vedtatt + K2–K5 åpne, § 7 holdte ordrer (L3-A bestillbar fra spec § 10). V6 (pausevindu fra ankomst) er utledet, ikke vedtatt |
 | timer-gps-lag1-spec.md | 2026-10-03 | **🟢 LEVERT 2026-10-03 (L1-C/L1-A `9d67367a`, L1-B `2e993250`):** lag 1 i timer-GPS-planen — § 1 målt utgangspunkt M1–M16 (inkl. H21), § 2 stedsmodell A1–A6 i `packages/shared`, § 3 reiseberegning B1–B5 i `beregnDagsforslag`, § 4 datagrunnlag C1–C7 (to additive migreringer), § 5 rydding, § 6 ordre-splitt L1-C/L1-A/L1-B, § 7 fem åpne punkter |
 | timer-gps-lag2-spec.md | 2026-10-03 | **⚠ UTKAST TIL GATE (fabel eier, orkestrator gater):** lag 2 sporbarhet — § 1 M1–M11, § 2 radmodell (`erReise`, retning, kjøretid, avstand, kilde, `reiseRegel`, `tidKilde`, `normStatus`), § 3 mobil + V8, § 4 mottak K5 + V1/V2 server, § 5 attestering + eksport, § 6 L2-A → L2-B ∥ L2-C, § 8 tre åpne punkter |
-| timer-gps-lag3-4-spec.md | 2026-11-06 | **🟢 VEDTATT 2026-11-06 (fabel eier, orkestrator gater, Kenneth vedtok K11/K13/K15/K18):** lag 3 bekreft dag + lag 4 flere byggeplasser pr. dag — § 1 M1–M14, § 2 byggeplass-besøk (LAG 4), § 3 skjermform A + § 3.5 maskin/redskap/varer pr. segment (L3-D), § 4 reiseregler, § 5 G1, § 6 L3-A → L3-D → L4-A → L4-C ∥ L4-B → L3-B, § 8 19 tester, § 9 K19–K21 åpne (L3-D), § 10 ORDRE-tekst L3-A. Skisser i `skisser-timer-gps-lag3/` (html + 4 PNG) |
+| timer-gps-lag3-4-spec.md | 2026-11-06 | **🟢 VEDTATT 2026-11-06 (fabel eier, orkestrator gater, Kenneth vedtok K11/K13/K15/K18 + K19–K21):** lag 3 bekreft dag + lag 4 flere byggeplasser pr. dag — § 1 M1–M14, § 2 byggeplass-besøk (LAG 4), § 3 skjermform A + § 3.5 maskin/redskap/varer pr. prosjekt, antall (L3-D; K19 nei/K20/K21 a vedtatt 2026-11-06), § 4 reiseregler, § 5 G1, § 6 L3-A → L3-D → L4-A → L4-C ∥ L4-B → L3-B, § 8 21 tester, § 9 K11–K21 vedtatt, § 10 ORDRE-tekst L3-A. Skisser i `skisser-timer-gps-lag3/` (html + 4 PNG) |
 | v17-geofence-spec.md | 2026-10-04 | **⚠ UTKAST TIL GATE (fabel eier, orkestrator gater):** V17 — `Geofence = Sirkel \| Polygon` i `sted.ts` med `erInnenfor` (PSIs første forbruker), `geofence_polygon` lat/lng på server (CHECK: krever punkt), trasé→korridor-utledning, upresis-merke på store auto-sirkler, mobil speiler uten transform. Bygger på `maaling-v17-geofence-2026-10-03.md` |
 | dokumentsok-visning-spec.md | 2026-10-30 | **⚠ UTKAST TIL GATE (fabel eier, orkestrator gater):** SØK-2 S1b/S3 + M3 bygget (`feat/sok2-flere-treff`, § 6 pkt. 10 + 14); § 6 pkt. 11 reparasjoner F3/F2/F1b (merget `46b390c8`), pkt. 12 F1a-varsel (merget `24ddc0b1`), pkt. 13 + S5-notat hel-avsnitt-markering (merget `ea2b4090`) + blokk-ramme og pkt. 11 rens 2 av gab-chunker (`fix/sok-ramme-gab-rens`, 30.10); dokumentsøk-visning — fokus på valgt treff i høyre rute, utsnitt rundt treffet i begge moduser, flere treff pr. dokument i AI-søk, deterministisk kandidatuttak, semantiske treff markert, medlemskapssjekk på `hentDokumentChunks`; SØK-1/SØK-2 |
 | arbeidstegning-spec.md | 2026-10-12 | **⚠ UTKAST TIL GATE (fabel eier, orkestrator gater):** arbeidstegning som verktøy — trykk på objekt → egenskaper (lag tolket til bygningsdel/objekttype, rom-attributter, skravur = materiale), lag/fag av-på, søk, detaljnivå ved zoom m/ ytelsesbudsjett, oppgave/sjekkliste med objektreferanse, snap mot geometri, offline, samme objekt på tvers av tegninger (Revit element-id), tittelfelt → metadata, underlag/stabling av fagtegninger (xref), § 8 felles objektmodell/egenskapskort/lagpanel/objektreferanse delt med IFC/3D og mobil, F11 georef (kart-CRS/fastpunkt/to punkter, 2D→IFC); vei A/B velges av Dokgens prøve (§ 6), § 9 gjenkjenning på tvers av CAD-standarder + firmakobling lag/mønster → type Rev. 13 (22.10): § 9.7 K6 veggtype/oppbygging, AT-V1–V6, GJ-3/GJ-4, Q15. |

diff --git a/docs/claude/timer-gps-helhetsplan.md b/docs/claude/timer-gps-helhetsplan.md
@@ -332,11 +332,12 @@ er kjernen; spec-en har skjerm, klikktelling, arkitektur, tester, **ORDRE-tekst 
 - **Én skjerm for to innganger** (PREMISS over): manuell dag går gjennom samme rute uten `arbeidsdagId` — **L3-B**,
   etter V21/V22. L3-A bestilles før V21/V22 (K15 ✅ vedtatt).
 - **Maskin/redskap og varer etterregistreres i samme skjerm** (Kenneth 2026-11-06: *«husk å etterregistrere
-  maskintimer/redskap og varer»*) — fotlinje «+ Maskin · + Varer» i hvert arbeidskort, pr. byggeplass-segment
-  (`SheetMachine.projectId` påkrevd, `Vareforbruk` krever timer-rad på prosjektet). Dag uten maskin/varer er fortsatt
-  2 klikk (P4). Maskintimer forhåndsutfylt = segmentets arbeidstid; «sist brukt» øverst (ORDRE 29 A
-  `sistBrukteMaskiner`); varer via `KortVareforbrukModal` med låst prosjekt. Alt skrives først ved Bekreft.
-  **L3-D**, etter L3-A + ORDRE 29 A; spec § 3.5, skisse `skjermform-a-maskin-varer.png`, åpne K19–K21.
+  maskintimer/redskap og varer»*; K19–K21 vedtatt 2026-11-06: *«pr prosjekt, med antall -> ikke fra/til»*) — egen
+  seksjon «Maskin og varer» nederst i skjermen, én linje pr. **prosjekt** med «+ Maskin · + Varer»; maskintimer som
+  tomt antall-felt (ikke forhåndsutfylt, ikke fra/til), `sheetTimerId = null`; varer valgfritt pr. prosjekt. Dag uten
+  maskin/varer er fortsatt 2 klikk (P4); med maskin eller vare 5. «Sist brukt» øverst (ORDRE 29 A `sistBrukteMaskiner`);
+  lokal vakt = serverens `beregnMaskinBrudd`. Alt skrives først ved Bekreft. **L3-D**, etter L3-A + ORDRE 29 A; spec
+  § 3.5, skisse `skjermform-a-maskin-varer.png`.
 
 🔴 **Og de tre kodekommentarene som forbyr GPS å velge prosjekt reverseres i L3-A — eksplisitt,
 med henvisning til Kenneths vedtak og til at bekreftelsessteget er på plass** (ordlyd i spec § 5 pkt. 3). Rives de før
